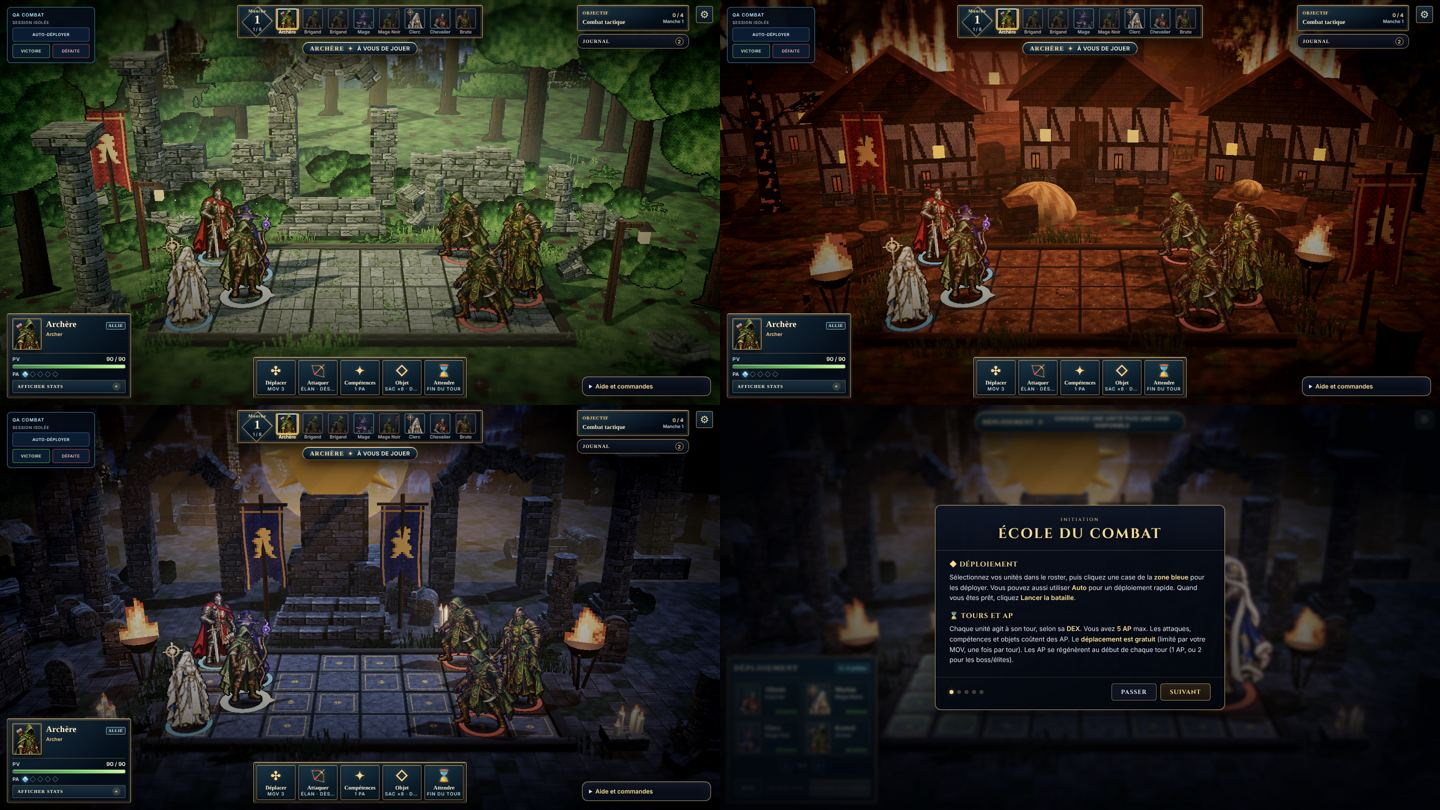
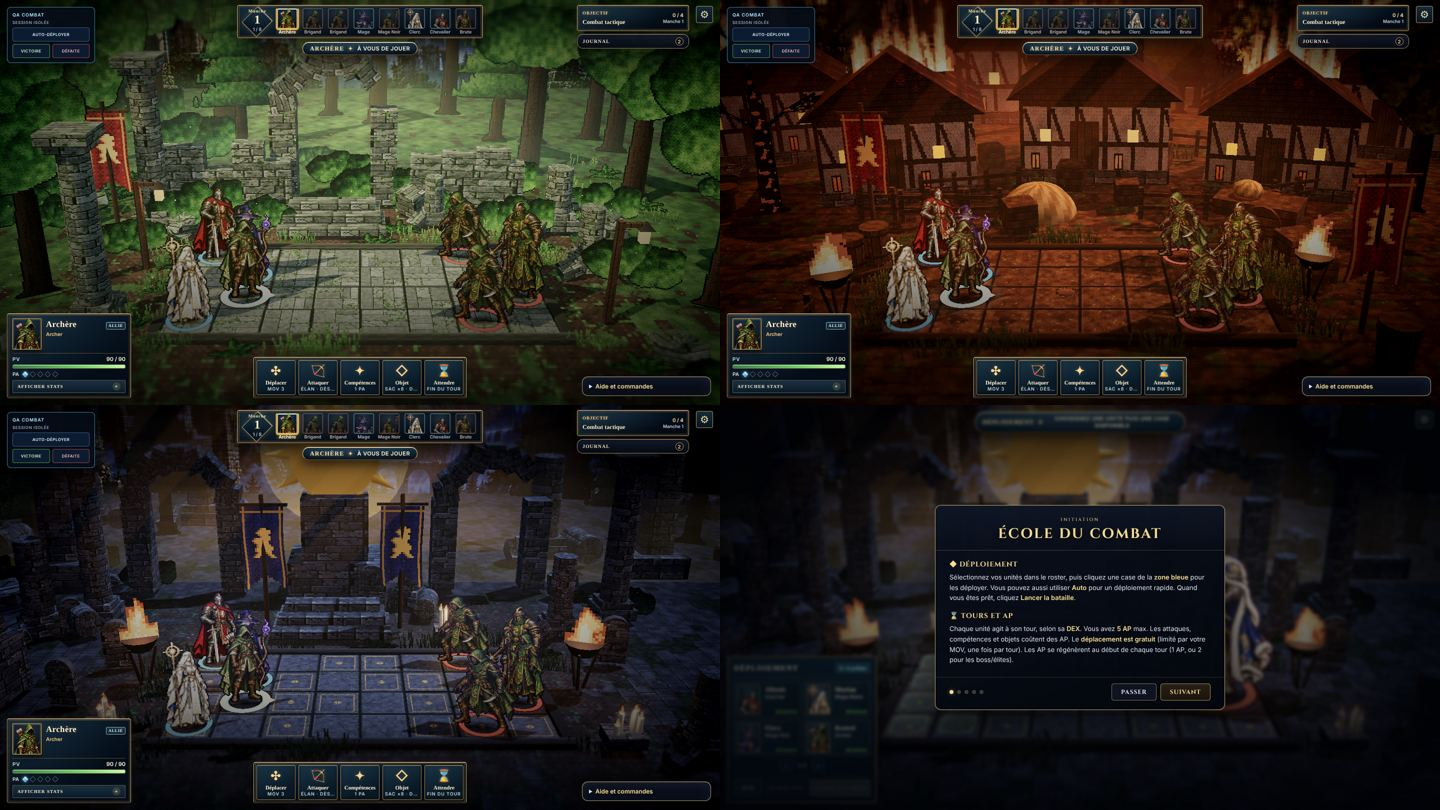
Combat arenas: trampled earth apron and path around the platform
Forest and sanctum get a worn-earth apron (pixel texture, dithered ragged
edge, a path toward the back ruins) so the battle area reads as used
ground rather than lawn; the village keeps its mud. Report capture 02
refreshed.

Claude-Session: https://claude.ai/code/session_01Vvb8uvXFqdHBmmLBUQEyFS

diff --git a/src/combat/arena/CombatArena.ts b/src/combat/arena/CombatArena.ts
@@ -2,7 +2,7 @@ import * as THREE from 'three';
 import { mergeGeometries } from 'three/addons/utils/BufferGeometryUtils.js';
 import { makeNoise, seeded } from './pixelArt';
 import { arenaBandProps, arenaClutterProps, arenaThemeFor, type ArenaTheme } from './arenaThemes';
-import { groundTexture, tileSideTexture, tileTopTexture } from './arenaTextures';
+import { groundTexture, tileSideTexture, tileTopTexture, trampledGroundTexture } from './arenaTextures';
 import { buildProp, type PropContext } from './arenaProps';
 import { drawFern, drawGrass, DECOR_TEXELS_PER_UNIT } from './arenaSprites';
 import platesJson from '../../render/generated/combatArenaPlates.json';
@@ -77,6 +77,7 @@ export class CombatArena {
   async build(): Promise<void> {
     this.buildPlatform();
     this.buildGround();
+    this.buildTrampledApron();
     this.buildEdgeVegetation();
     const bandRng = seeded(5150 + this.theme.id.length * 13);
     const midPlate = GENERATED_PLATES[this.theme.id]?.mid;
@@ -275,6 +276,25 @@ export class CombatArena {
     ground.raycast = () => {};
     ground.name = 'arena-ground';
     this.root.add(ground);
+  }
+
+  /** Worn earth around the platform and a path toward the back (not on the village mud). */
+  private buildTrampledApron(): void {
+    if (this.theme.ground === 'village_mud') return;
+    const texture = trampledGroundTexture(this.theme.palette, 1201 + this.theme.id.length).toTexture();
+    this.ctx.textures.set('apron', texture);
+    const { width, depth } = this.platformSize;
+    const w = width + 7.5, d = depth + 9;
+    const geometry = new THREE.PlaneGeometry(w, d);
+    this.geometries.push(geometry);
+    const material = new THREE.MeshStandardMaterial({ map: texture, alphaTest: 0.5, roughness: 1, polygonOffset: true, polygonOffsetFactor: -2, polygonOffsetUnits: -2 });
+    const apron = new THREE.Mesh(geometry, material);
+    apron.rotation.x = -Math.PI / 2;
+    apron.position.set(0, -0.14, -1.1);
+    apron.receiveShadow = true;
+    apron.raycast = () => {};
+    apron.name = 'arena-apron';
+    this.root.add(apron);
   }
 
   /** Grass and ferns hugging the curb so the platform grows out of the ground. */

diff --git a/src/combat/arena/arenaTextures.ts b/src/combat/arena/arenaTextures.ts
@@ -190,6 +190,36 @@ export function groundTexture(style: GroundStyle, pal: ArenaPalette, seed = 7): 
   return pc;
 }
 
+/**
+ * Trampled apron around the battle platform: worn earth with ragged,
+ * dithered edges and a path running back toward the ruins (alpha-cut).
+ * u spans x (−W/2…W/2), v spans z (back → front).
+ */
+export function trampledGroundTexture(pal: ArenaPalette, seed: number, w = 192, h = 128): PixelCanvas {
+  const pc = new PixelCanvas(w, h);
+  const rng = seeded(seed);
+  const n1 = makeNoise(rng, 8), n2 = makeNoise(rng, 16);
+  for (let y = 0; y < h; y++) for (let x = 0; x < w; x++) {
+    const u = (x / (w - 1)) * 2 - 1, v = (y / (h - 1)) * 2 - 1;
+    // rounded rectangle around the platform + a path toward the back (v < 0)
+    const box = Math.max(Math.abs(u) / 0.86, Math.abs(v) / 0.8);
+    const path = v < 0 ? Math.abs(u + Math.sin(v * 3) * 0.05) / (0.1 + (1 + v) * 0.06) : 9;
+    const shape = Math.min(box, path);
+    const edge = shape + (n1(x / 6, y / 6) - 0.5) * 0.5 + (n2(x / 2.5, y / 2.5) - 0.5) * 0.18;
+    if (edge > 1) continue;
+    if (edge > 0.88 && bayer(x, y) > (1 - edge) * 6) continue; // dithered fringe
+    const level = 0.45 + (n2(x / 3, y / 3) - 0.5) * 0.4 + (n1(x / 9, y / 9) - 0.5) * 0.2 - (edge > 0.8 ? 0.12 : 0);
+    let c = shadeTone(pal.dirt, Math.max(0, Math.min(1, level)), x, y);
+    if (n1(x / 2, y / 2) > 0.8 && edge > 0.5) c = shadeTone(pal.grass, 0.35 + n2(x, y) * 0.3, x, y);
+    pc.set(x, y, c);
+  }
+  for (let k = 0; k < 60; k++) {
+    const x = Math.floor(rng() * w), y = Math.floor(rng() * h);
+    if (pc.alpha(x, y)) pc.set(x, y, ramp(pal.stone, 0.3 + rng() * 0.4));
+  }
+  return pc;
+}
+
 /** Ashlar courses for walls, columns, arches and pedestals. */
 export function stoneBlockTexture(pal: ArenaPalette, seed: number, w = 32, h = 64, course = 8, mossy = 0.5): PixelCanvas {
   const pc = new PixelCanvas(w, h);
